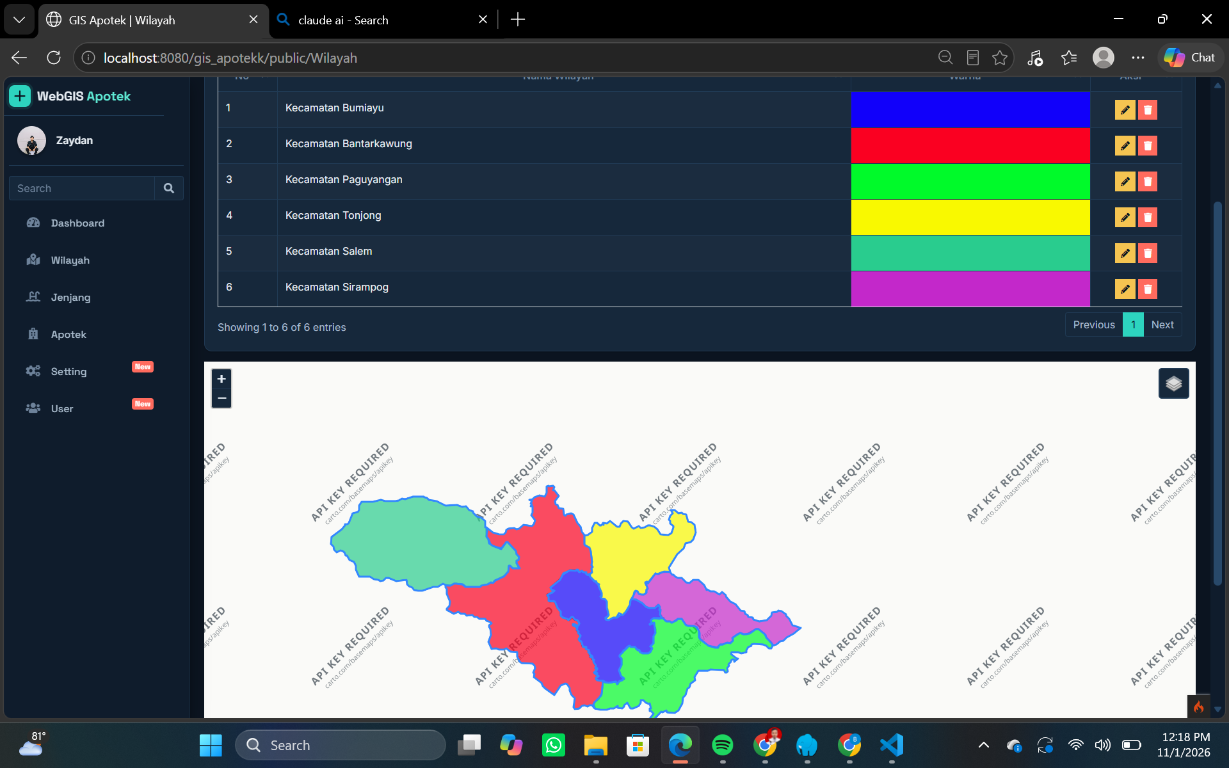
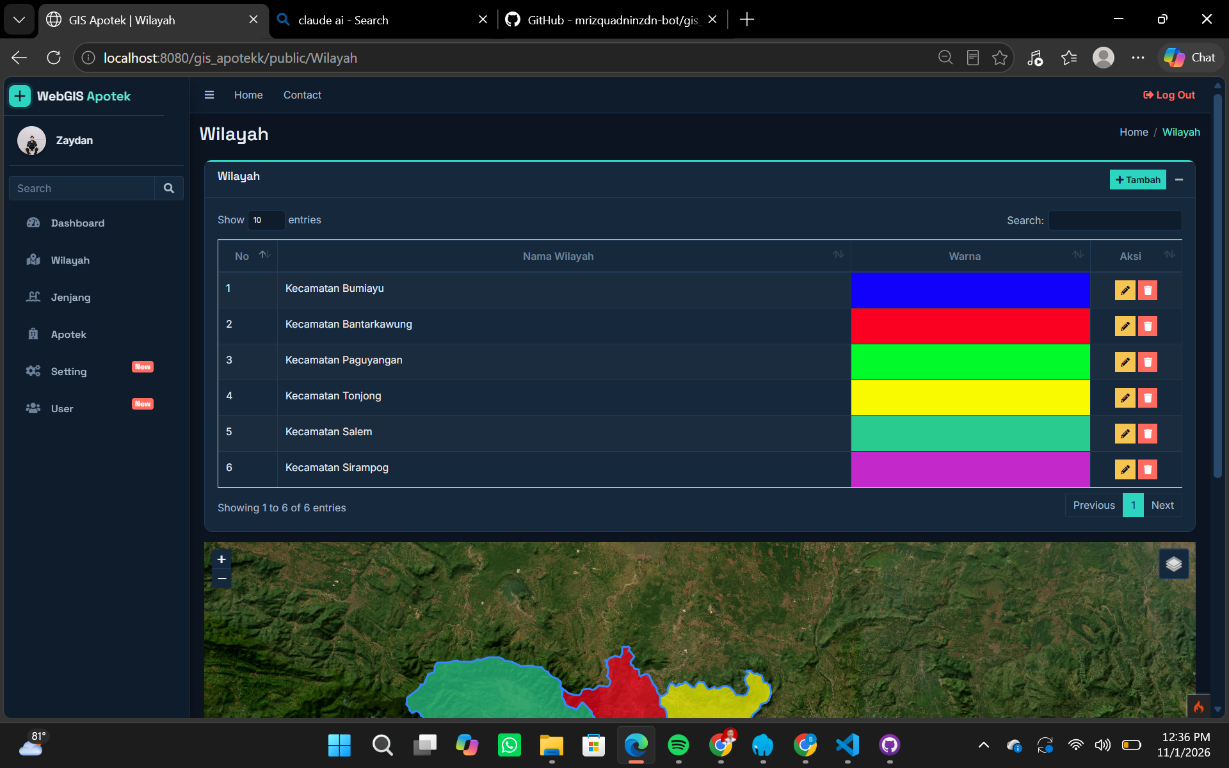
menambahkan screenshoot di bagian readme

diff --git a/README.md b/README.md
@@ -19,9 +19,41 @@ Informasi lokasi apotek akan lebih mudah dipahami jika ditampilkan bersama peta 
 
 ## Screenshot aplikasi
 
-Berikut tampilan halaman Wilayah saat aplikasi dijalankan. Halaman ini menampilkan daftar wilayah beserta peta batas wilayahnya.
+Berikut tangkapan layar aplikasi yang sedang dijalankan:
 
-![Screenshot halaman Wilayah WebGIS Apotek](docs/screenshots/wilayah.png)
+### Halaman publik
+
+![Halaman publik WebGIS Apotek](docs/screenshots/public.png)
+
+### Login
+
+![Halaman login WebGIS Apotek](docs/screenshots/login.png)
+
+### Dashboard
+
+![Dashboard admin WebGIS Apotek](docs/screenshots/dashboard.png)
+
+### Wilayah
+
+![Halaman pengelolaan wilayah dan peta](docs/screenshots/wilayah.png)
+
+### Jenjang
+
+![Halaman pengelolaan jenjang apotek](docs/screenshots/jenjang.png)
+
+### Apotek
+
+![Halaman pengelolaan data apotek](docs/screenshots/apotek.png)
+
+### Setting
+
+![Halaman pengaturan aplikasi dan peta](docs/screenshots/setting.png)
+
+### User
+
+![Halaman pengelolaan pengguna](docs/screenshots/user.png)
+
+Nilai hash password pada screenshot User disamarkan untuk mencegah penyebaran data autentikasi.
 
 ## Persyaratan
 
